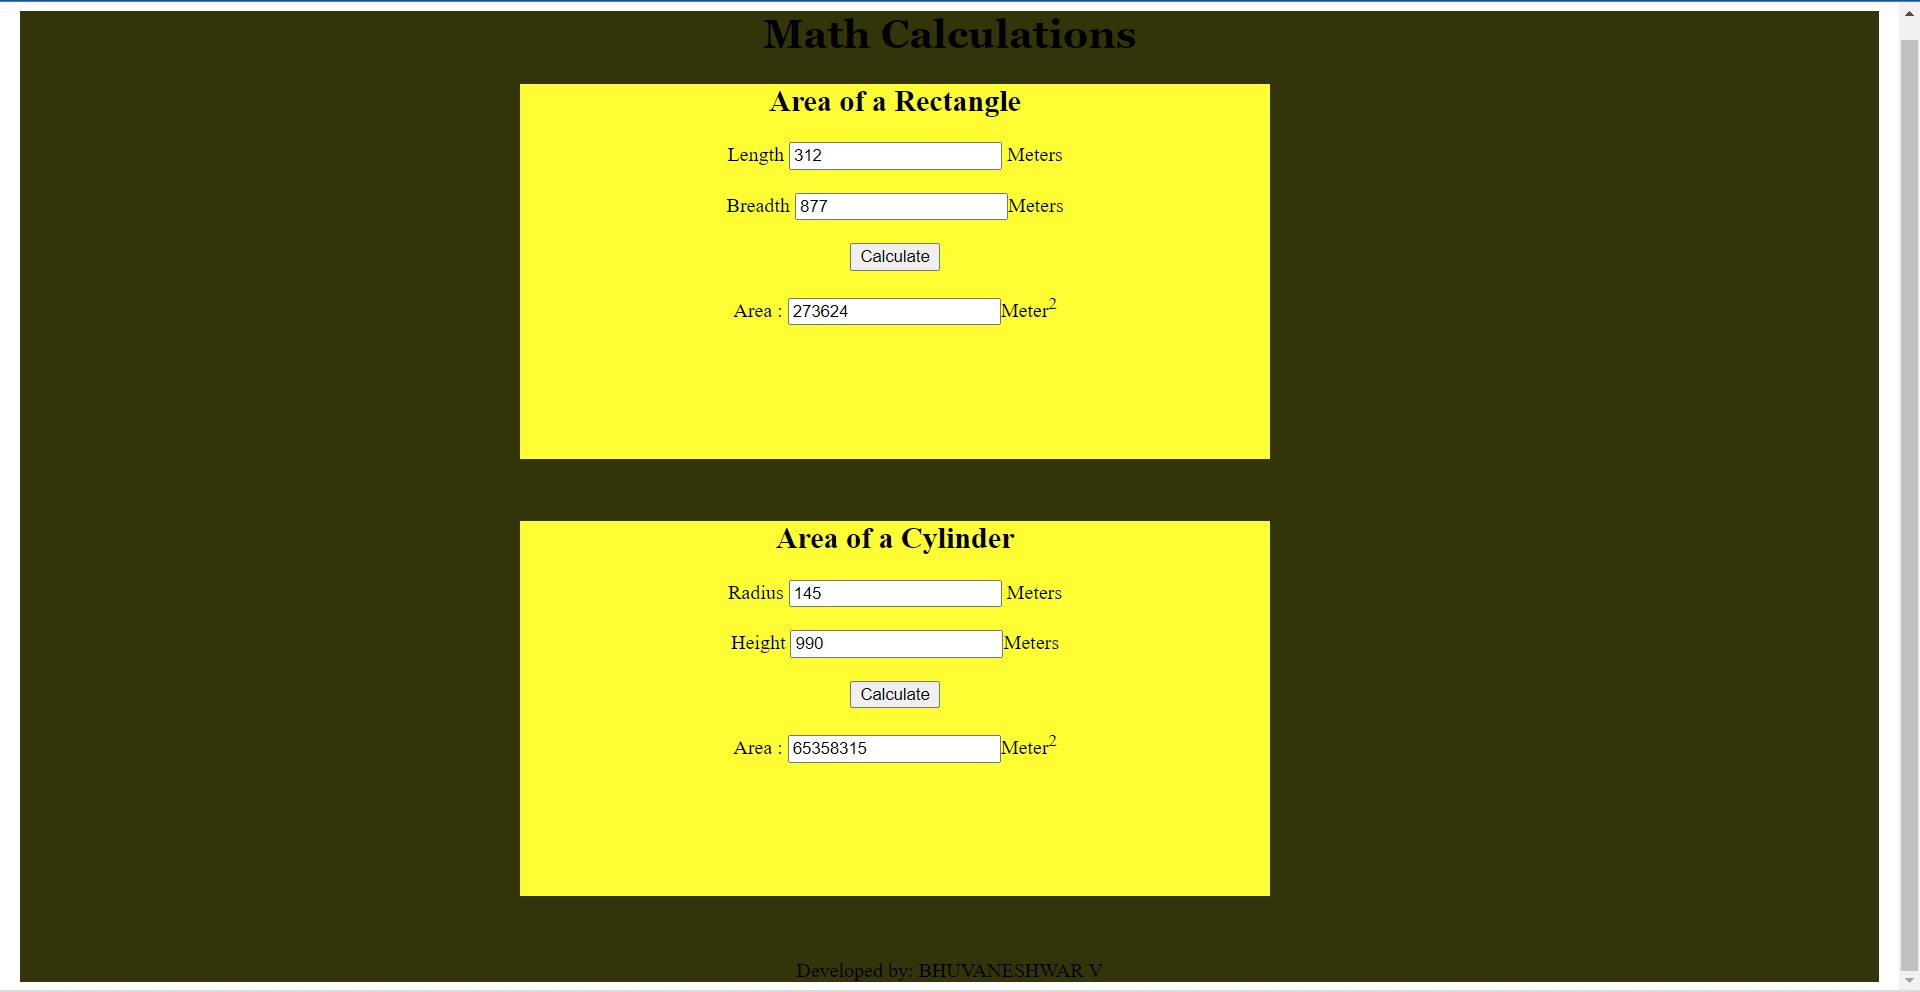
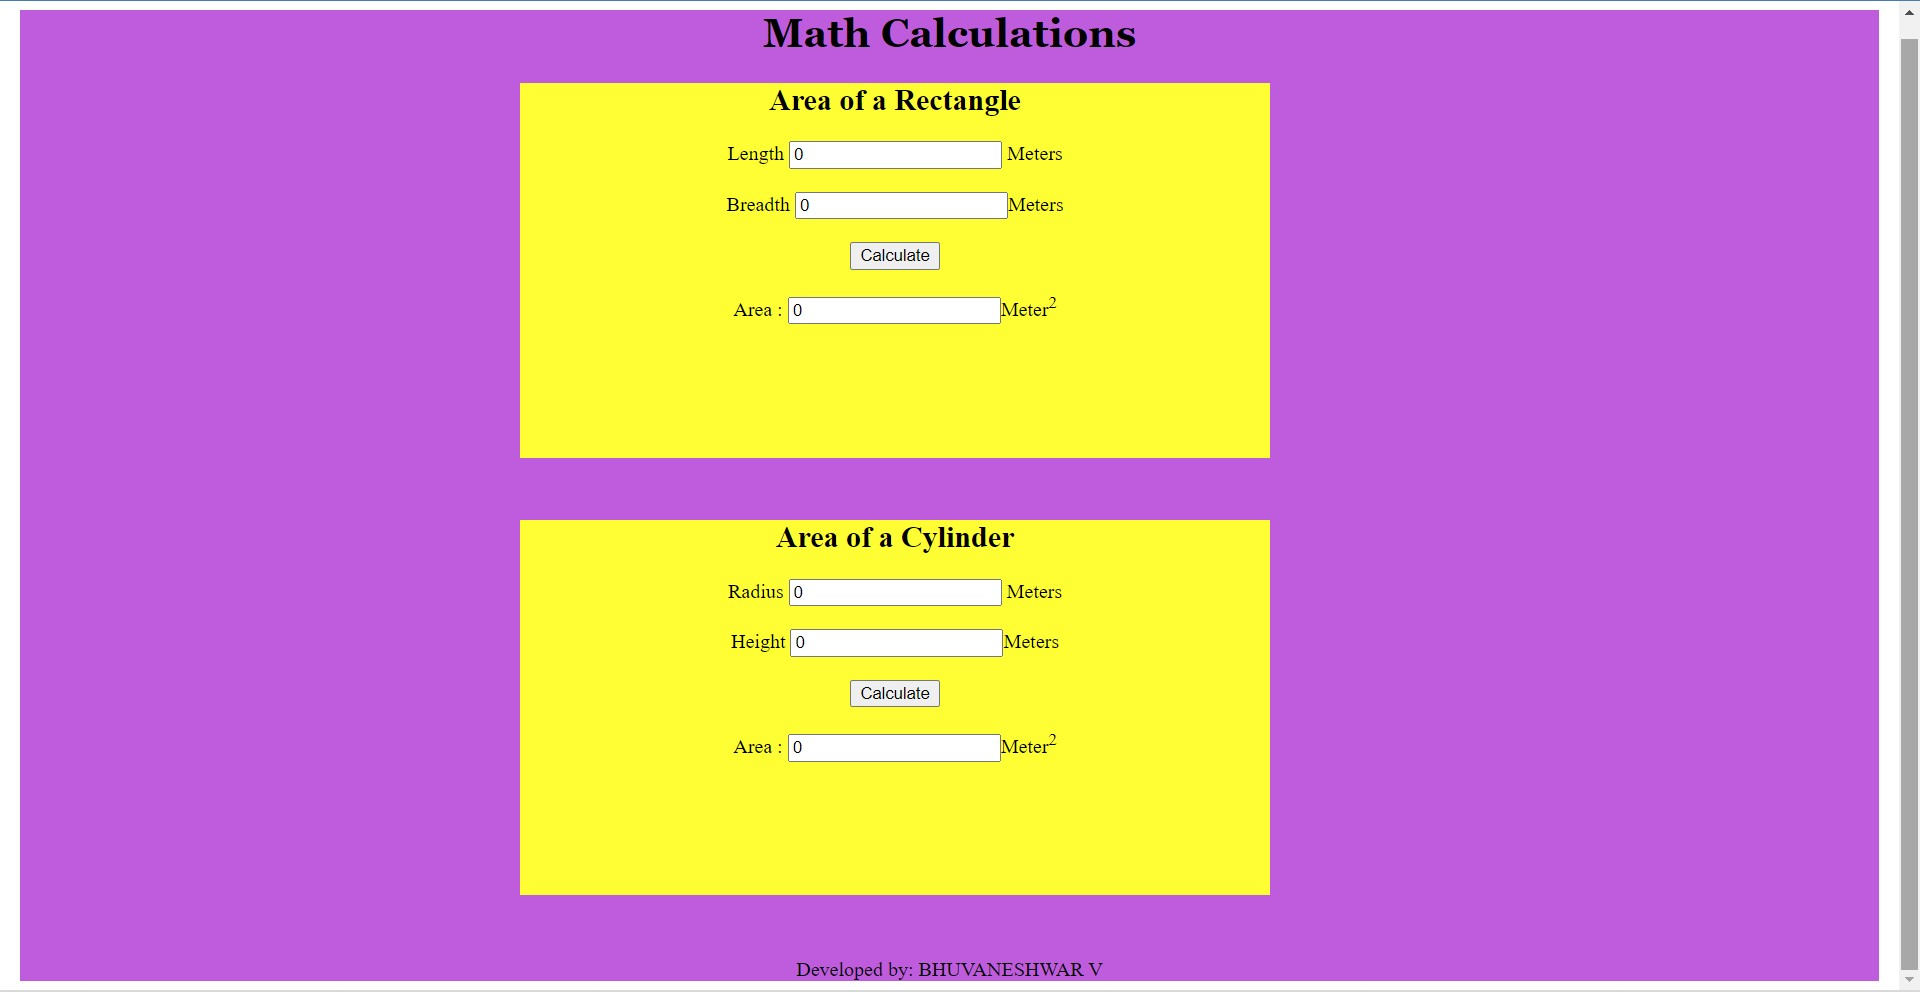
calculator

diff --git a/README.md b/README.md
@@ -68,7 +68,7 @@ export class AppComponent {
 app.component.css
 ~~~
 .container{
-    background-color: #343409;
+    background-color: #bf5cdd;
     text-align: center;
     height: 720pxx;
 }
